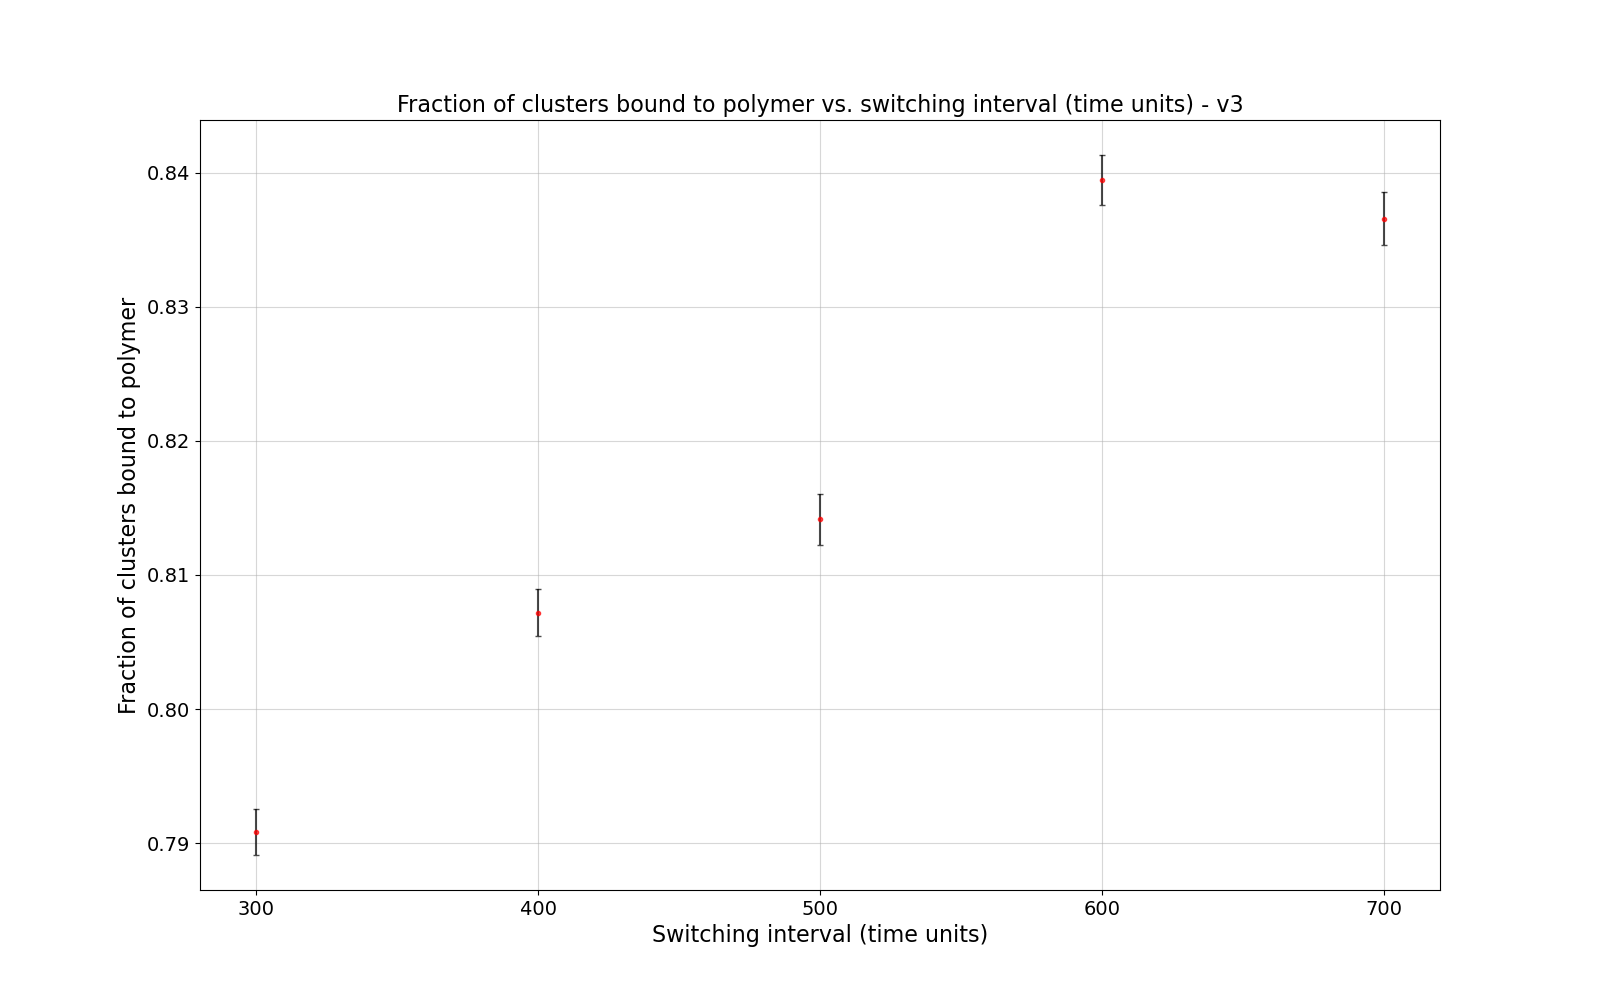
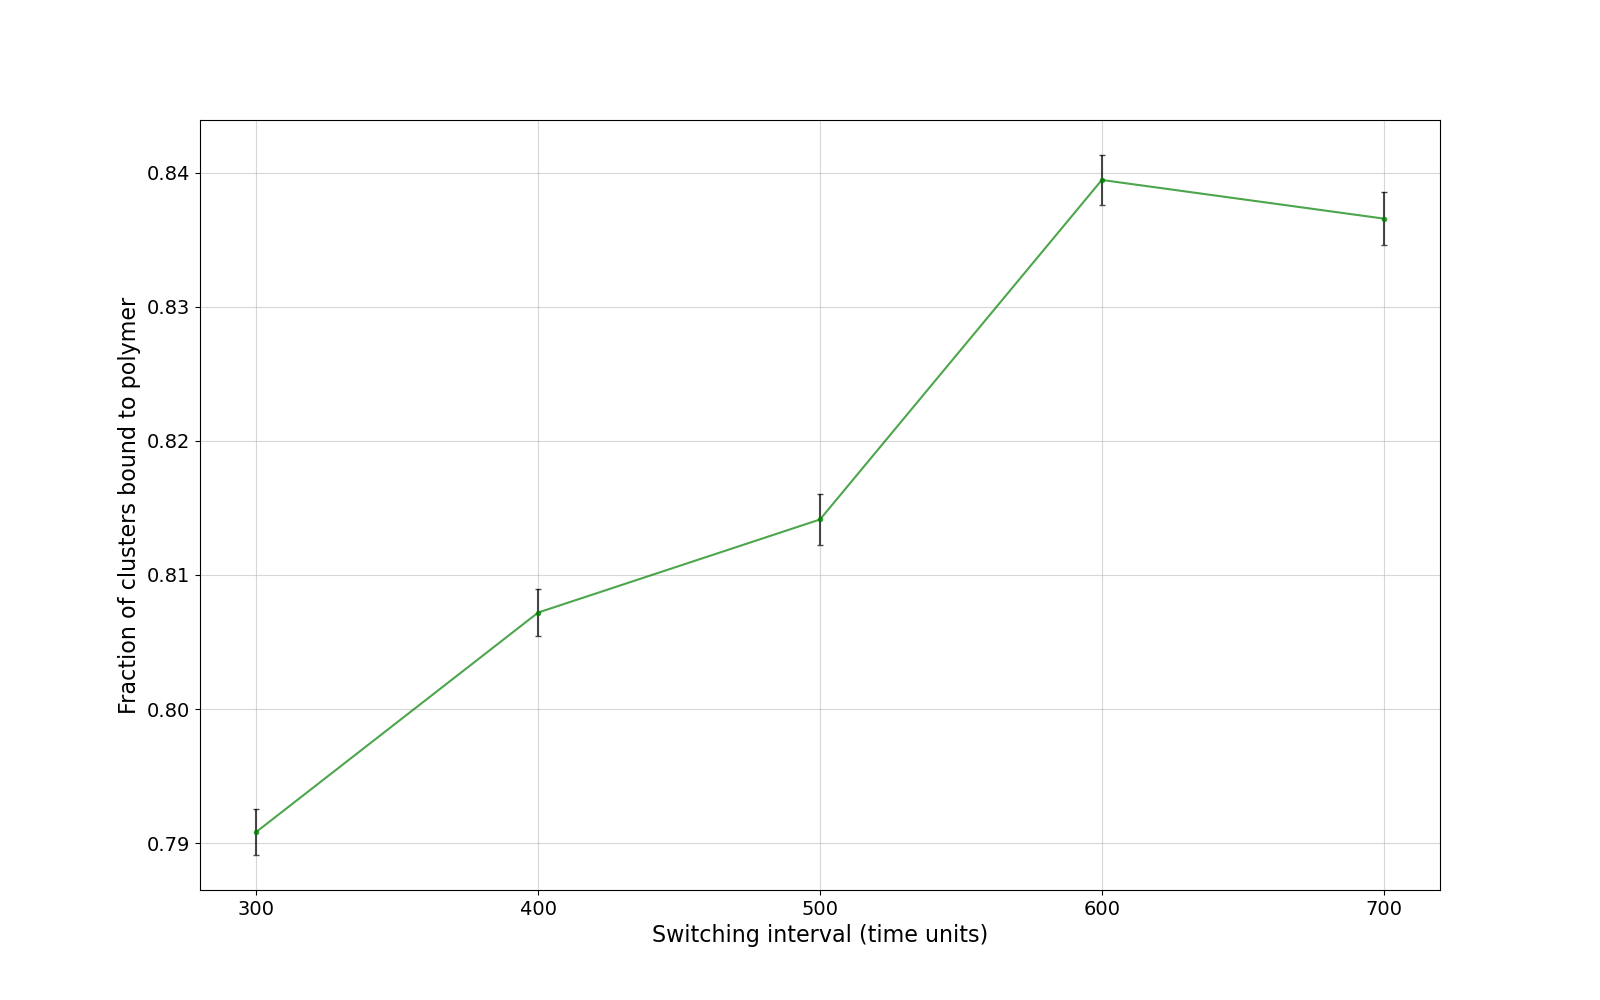
Making more plots for report (varying the no of prot, switching interval).

Changed region(s): [[0.25, 0.093, 0.7812, 0.124], [0.5, 0.496, 0.5312, 0.527]]

diff --git a/plots_code_v3/plots_report.py b/plots_code_v3/plots_report.py
@@ -13,11 +13,14 @@ if local_or_cplab == "local":
     path_to_outfiles = '/home/elenaespinosa/OneDrive/Uni/Summer_courses/Summer_project/mod_lammps_code/outfiles_v3/'
     path_to_trimmed_outfiles = '/home/elenaespinosa/OneDrive/Uni/Summer_courses/Summer_project/mod_lammps_code/outfiles_v3/trimmed_outfiles/'
     save_plots_to_report = '/home/elenaespinosa/OneDrive/Uni/Summer_courses/Summer_project/mod_lammps_code/plots_v3/report/'
+    save_plots_to_SS = '/home/elenaespinosa/OneDrive/Uni/Summer_courses/Summer_project/mod_lammps_code/plots_v3/steady_state/'
+
 
 else:
     path_to_outfiles = '/home/s2205640/Documents/summer_project/mod_lammps_code/outfiles_v3/'
     path_to_trimmed_outfiles = '/home/s2205640/Documents/summer_project/mod_lammps_code/outfiles_v3/trimmed_outfiles/'
     save_plots_to_report = '/home/s2205640/Documents/summer_project/mod_lammps_code/plots_v3/report/'
+    save_plots_to_SS = '/home/s2205640/Documents/summer_project/mod_lammps_code/plots_v3/steady_state/'
 
 
 ### -----------------------------------------------------------------------------------------------------------------------------
@@ -230,13 +233,14 @@ def full_plots_1234_05678(column_name, column_no):
 
     fig.supxlabel('Timesteps', fontsize ='16')
     fig.supylabel(column_name, fontsize ='16')
-    fig.suptitle('Number of clusters vs Timesteps for Models 1-4 (top) and Models 0, 5-7 (bottom)', fontsize='16')
+    #fig.suptitle('Number of clusters vs Timesteps for Models 1-4 (top) and Models 0, 5-7 (bottom)', fontsize='16')
 
     for i in range(1, 5):
         axs[0].plot(data_frames_1234_05678[i]['Timesteps'], data_frames_1234_05678[i]['No_of_clusters'], marker='.', alpha=0.7, label=f'Model {models_1234_05678[i-1]}')
 
     axs[0].axvline(1000000, linestyle='--', alpha=0.7, label='Steady state timestep', color='black')
     axs[0].tick_params(labelsize=14)
+    axs[0].ticklabel_format(style='plain')
     axs[0].legend(fontsize=14)
     axs[0].grid(True, alpha=0.5)
 
@@ -246,6 +250,7 @@ def full_plots_1234_05678(column_name, column_no):
 
     axs[1].axvline(3000000, linestyle='--', alpha=0.7, label='Steady state timestep', color='black')
     axs[1].tick_params(labelsize=14)
+    axs[1].ticklabel_format(style='plain')
     axs[1].legend(fontsize=14)
     axs[1].grid(True, alpha=0.5)
 
@@ -255,7 +260,7 @@ def full_plots_1234_05678(column_name, column_no):
 
 
 # full outfile plots for models 1234 and 05678
-full_plots_1234_05678(column_name[0], 1)
+#full_plots_1234_05678(column_name[0], 1)
 
 ### -----------------------------------------------------------------------------------------------------------------------------
 
@@ -318,7 +323,7 @@ def plot_mean_with_sem(ax, means, sems, column_name):
         bar.set_label(f'{label}: {mean:.2f} ± {sem:.2f}')
     
     ax.legend(fontsize=10)
-
+"""
 # Create a 2x2 grid of subplots
 fig, axs = plt.subplots(2, 2, figsize=(16, 12), tight_layout=True)
 
@@ -363,7 +368,7 @@ for i, column in enumerate(columns_to_plot):
 # Show the plot
 plt.savefig(save_plots_to_report + f"SS_plots_5_to_8_models_12_05678_v3.png", dpi='figure')
 plt.show()
-
+"""
 
 ### -----------------------------------------------------------------------------------------------------------------------------
 
@@ -384,7 +389,7 @@ def plot_histogram_models_12_5678(ax, cs_list_step_1, counts_list, model, color)
 trimmed_outfiles_cs_list_12_5678 = [f'trimmed_outfile_cs_{i}_run_1_v3.dat' for i in range(1, 3)] + [f'trimmed_outfile_cs_{i}_run_1_v3.dat' for i in range(5, 9)]
 
 # cluster sizes histogram plots for models 1, 2, 5, 6, 7 + 8
-
+"""
 fig, axs = plt.subplots(3, 2, figsize=(16, 12), tight_layout=True)
 
 axs = axs.flatten()
@@ -401,9 +406,7 @@ fig.supylabel('Counts', fontsize=16)
 
 plt.savefig(save_plots_to_report + f"hists.png", dpi='figure')
 plt.show()
-
-
-
+"""
 
 
 ### -----------------------------------------------------------------------------------------------------------------------------
@@ -456,83 +459,6 @@ for i, column in enumerate(column_name):
     full_plots_05678(data_frame_name[i], column_name[i], (i+1))
 """
 
-### -----------------------------------------------------------------------------------------------------------------------------
-
-trimmed_outfiles_list_05678_v3 = ['trimmed_outfile_0_run_1_v3.dat'] + [f'trimmed_outfile_{i}_run_1_v3.dat' for i in range(5, 9)]
-
-# dictionary to store data frames
-data_frames_05678_trimmed_v3 = {}
-
-# parse data
-for i in range(1, 6):
-    data_frames_05678_trimmed_v3[i] = pd.read_csv(path_to_trimmed_outfiles + trimmed_outfiles_list_05678_v3[i-1], sep=' ', comment='#', header=None)
-    data_frames_05678_trimmed_v3[i].columns = ['Timesteps', 'No_of_clusters', 'Mean_size_of_clusters', 
-                                        'Size_of_largest_cluster', 'No_of_clusters_of_size_1', 'No_proteins_bound_to_poly', 
-                                        'Fraction_clusters_bound_to_poly', 'No_type_2_poly_bound_to_prot', 'Mean_no_type_2_in_cluster']
-
-
-def SS_plots_models_05678(mean_05678, std_05678, sem_05678, column_name, column_no):
-    bar_labels_mean = [f'Model {model}: {mean_05678[i]:.2f} ± {sem_05678[i]:.2f} (1 SEM)' for i, model in enumerate(models_05678)]
-    bar_labels_std = [f'Model {model}: {std_05678[i]:.2f} ± ---' for i, model in enumerate(models_05678)]
-    model_labels = [f'Model {model}' for model in (models_05678)]
-
-    fig, axs = plt.subplots(1, 2, sharey=True, figsize=(16, 10), tight_layout=True)
-
-    fig.supxlabel('Models', fontsize ='16')
-    fig.supylabel(column_name, fontsize ='16')
-    fig.suptitle(f'{column_name} for different models - Mean ± 1 SEM (left) and STD (right) - v3', fontsize='16')
-
-    left_bar = axs[0].bar(model_labels, mean_05678, yerr=sem_05678, capsize=2, label=bar_labels_mean, color=['k']+colors[:4])
-
-    axs[0].set_xticks(x_pos_05678)
-    axs[0].tick_params(labelsize=14)
-    axs[0].legend(fontsize=14)
-    axs[0].grid(True, alpha=0.5)
-
-
-    right_bar = axs[1].bar(model_labels, std_05678, label=bar_labels_std, color=['k']+colors[:4])
-
-    axs[1].set_xticks(x_pos_05678)
-    axs[1].tick_params(labelsize=14)
-    axs[1].legend(fontsize=14)
-    axs[1].grid(True, alpha=0.5)
-
-    plt.savefig(save_plots_to_SS + f"plot_{column_no}_model_05678_SS_run_1_v3.png", dpi='figure')
-    plt.show()
-
-
-# steady state plots 1 to 8 for models 0, 5, 6, 7 + 8 - Mean ± 1 SEM (left) and STD (right) - protein clusters being type 4
-"""
-for i, column in enumerate(column_name):
-    mean_05678, std_05678, sem_05678 = get_stats_05678(data_frames_05678_trimmed_v3, data_frame_name[i])
-    SS_plots_models_05678(mean_05678, std_05678, sem_05678, column_name[i], (i+1))
-"""
-
-### -----------------------------------------------------------------------------------------------------------------------------
-
-trimmed_outfiles_cs_list_05678 = ['trimmed_outfile_cs_0_run_1_v3.dat'] + [f'trimmed_outfile_cs_{i}_run_1_v3.dat' for i in range(5, 9)]
-
-# cluster sizes histogram plots for models 0, 5, 6, 7 + 8
-"""
-model_i_cs_counter, no_of_frames = count_cluster_sizes(trimmed_outfiles_cs_list_05678[0])
-model_i_cs_list_step_1, model_i_counts_list = get_counts_and_sizes(model_i_cs_counter, no_of_frames)
-
-plot_histogram_models_0123(model_i_cs_list_step_1, model_i_counts_list, 0, 'black')
-
-for i in range(5, 9):
-    model_i_cs_counter, no_of_frames = count_cluster_sizes(trimmed_outfiles_cs_list_05678[i-4])
-    model_i_cs_list_step_1, model_i_counts_list = get_counts_and_sizes(model_i_cs_counter, no_of_frames)
-
-    plot_histogram_models(model_i_cs_list_step_1, model_i_counts_list, i, colors[i-5])
-
-    line_no = 1401  # specify the line no in cs outfile you want to plot - no 1401 is the last time step can use this to check results in vmd
-
-    model_i_cs_counter, no_of_frames = count_cluster_sizes(trimmed_outfiles_cs_list_05678[i-4], line_no)
-    model_i_cs_list_step_1, model_i_counts_list = get_counts_and_sizes(model_i_cs_counter, no_of_frames)
-
-    hist_plot_model_i_single_timestep(model_i_cs_list_step_1, model_i_counts_list, i, colors[i-5])
-"""
-
 
 ### -----------------------------------------------------------------------------------------------------------------------------
 
@@ -574,11 +500,11 @@ def plots_model_7_sw(mean_7_sw, std_7_sw, sem_7_sw, column_name, column_no):
 
     plt.figure(figsize=(16, 10))
     
-    plt.errorbar(tau_sw, mean_7_sw, yerr=sem_7_sw, capsize=2, fmt='.r', alpha=0.7, ecolor='black')
+    plt.errorbar(tau_sw, mean_7_sw, yerr=sem_7_sw, capsize=2, fmt='.-g', alpha=0.7, ecolor='black')
 
     plt.xlabel('Switching interval (time units)', fontsize ='16')
     plt.ylabel(f'{column_name}', fontsize ='16')
-    plt.title(f'{column_name} vs. switching interval (time units) - v3', fontsize ='16')
+    #plt.title(f'{column_name} vs. switching interval (time units) - v3', fontsize ='16')
     
     plt.xticks(tau_sw)  # ensure each cluster size is a tick on the x-axis
     plt.grid(True, alpha=0.5)
@@ -634,15 +560,17 @@ nop = [300, 400, 500, 600]
 
 def plots_models_5678_var_nop(means, stds, sems, column_name, column_no):
 
+    label_names = (5, 6, "7A", "7B")
+
     plt.figure(figsize=(16, 10))
     
     for i in range(0, 4):
 
-        plt.errorbar(nop, means[i*4:(i+1)*4], yerr=sems[i*4:(i+1)*4], capsize=2, fmt='.-', alpha=0.7, ecolor='black', label=f'Model {i+5}', color=colors[i])
+        plt.errorbar(nop, means[i*4:(i+1)*4], yerr=sems[i*4:(i+1)*4], capsize=2, fmt='.-', alpha=0.7, ecolor='black', label=f'Model {label_names[i]}', color=colors[i])
     
     plt.xlabel('No of proteins', fontsize ='16')
     plt.ylabel(f'{column_name}', fontsize ='16')
-    plt.title(f'{column_name} vs. no of proteins - v3', fontsize ='16')
+    #plt.title(f'{column_name} vs. no of proteins - v3', fontsize ='16')
     
     plt.xticks(nop)  # ensure each cluster size is a tick on the x-axis
     plt.grid(True, alpha=0.5)
@@ -659,4 +587,81 @@ for i, column in enumerate(column_name):
     means, stds, sems = get_stats_5678_nop(data_frames_5678_var_nop_v3, data_frame_name[i])
     plots_models_5678_var_nop(means, stds, sems, column_name[i], (i+1))
 """
+
+# ------------------------------------------------------------------------------------------------------------------------------------------
+
+
+# Function to create a single subplot for increasing no of proteins
+def subplot_models_5678_var_nop(ax, means, sems, column_name):
+
+    label_names = (5, 6, "7A", "7B")
+
+    ax.set_xticks(nop)
+    ax.tick_params(labelsize=14)
+    ax.grid(True, alpha=0.5)
+    ax.set_ylabel(column_name, fontsize=16)
+
+    for i in range(0, 4):
+
+        ax.errorbar(nop, means[i*4:(i+1)*4], yerr=sems[i*4:(i+1)*4], capsize=2, fmt='.-', alpha=0.7, ecolor='black', label=f'Model {label_names[i]}', color=colors[i])
+    
+    ax.legend(fontsize=10)
+
+
+# Create a 2x2 grid of subplots
+fig, axs = plt.subplots(nrows=2, ncols=3, figsize=(16, 12), tight_layout=True)
+
+fig.supxlabel('Number of proteins', fontsize ='16')
+
+# Flatten the axs array for easy iteration
+axs = axs.flatten()
+
+# Specify the columns to plot
+columns_to_plot = data_frame_name[:4] + data_frame_name[6:8]
+column_name_to_plot = column_name[:4] + column_name[6:8]
+
+# Iterate over the specified columns and plot
+for i, column in enumerate(columns_to_plot):
+    means, stds, sems = get_stats_5678_nop(data_frames_5678_var_nop_v3, column)
+    subplot_models_5678_var_nop(axs[i], means, sems, column_name_to_plot[i])
+
+# Show the plot
+plt.savefig(save_plots_to_report + f"condensed_plot_models_5678_SS_var_nop.png", dpi='figure')
+plt.show()
+
+
+# ------------------------------------------------------------------------------------------------------------------------------------------
+
+
+# Function to create a single subplot
+def subplot_model_7_sw(ax, means, sems, column_name):
+
+    ax.set_xticks(tau_sw)
+    ax.tick_params(labelsize=14)
+    ax.grid(True, alpha=0.5)
+    ax.set_ylabel(column_name, fontsize=16)
+
+    ax.errorbar(tau_sw, means, yerr=sems, capsize=2, fmt='.-g', alpha=0.7, ecolor='black')
+
+
+# Create a 2x2 grid of subplots
+fig, axs = plt.subplots(nrows=2, ncols=3, figsize=(16, 12), tight_layout=True)
+
+fig.supxlabel('Switching interval (time units)', fontsize ='16')
+
+# Flatten the axs array for easy iteration
+axs = axs.flatten()
+
+# Specify the columns to plot
+columns_to_plot = data_frame_name[:5] + data_frame_name[7:8]
+column_name_to_plot = column_name[:5] + column_name[7:8]
+
+# Iterate over the specified columns and plot
+for i, column in enumerate(columns_to_plot):
+    means, stds, sems = get_stats_7(data_frames_7_trimmed, column)
+    subplot_model_7_sw(axs[i], means, sems, column_name_to_plot[i])
+
+# Show the plot
+plt.savefig(save_plots_to_report + f"condensed_plot_model_7_sw.png", dpi='figure')
+plt.show()
 
